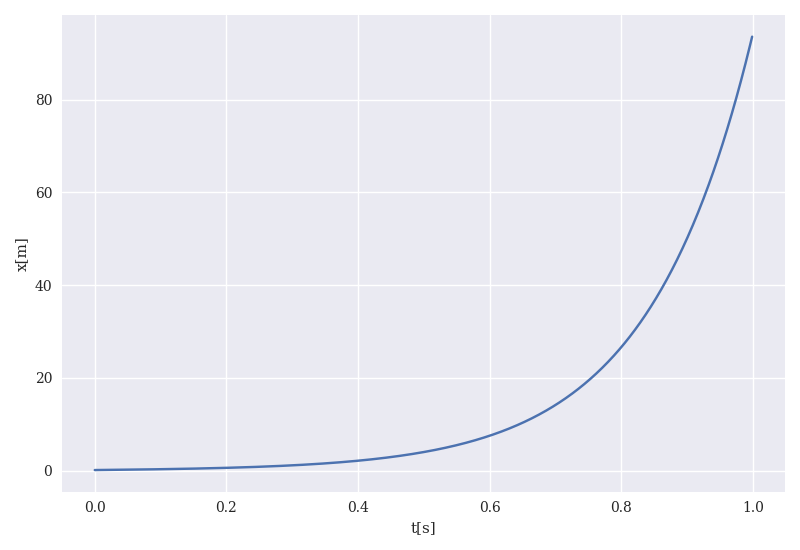
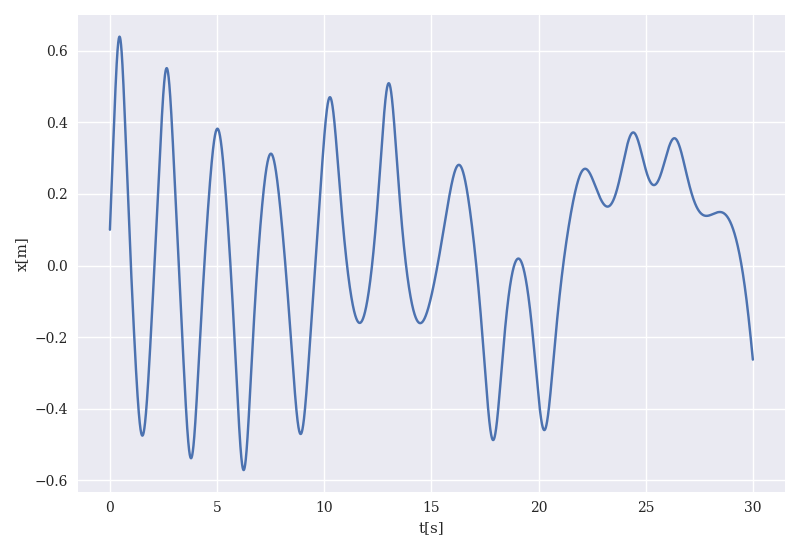
wrong link

diff --git a/doc/web/course.html b/doc/web/course.html
@@ -616,7 +616,7 @@ The teaching material is produced in various formats for printing and on-screen 
  <li> Jupyter notebook:</li>
 
 <ul>
-    <li> <a href="https://mhjensen.github.io/Physics321/doc/Homeworks/hw4/ipynb/first.ipynb" target="_self">The notebook</a></li>
+    <li> <a href="https://mhjensen.github.io/Physics321/doc/MidTermProjects/first/html/first.ipynb" target="_self">The notebook</a></li>
 </ul>
 
  <li> Solution as Jupyter notebook:</li>

diff --git a/doc/src/harmonic/Programs/BlockEulerCromer.py b/doc/src/harmonic/Programs/BlockEulerCromer.py
@@ -35,7 +35,7 @@ mpl.rcParams['font.family'] = 'serif'
 
 DeltaT = 0.001
 #set up arrays 
-tfinal = 1.0
+tfinal = 30.0
 n = ceil(tfinal/DeltaT)
 # set up arrays for t, v, and x
 t = np.zeros(n)
@@ -43,8 +43,8 @@ v = np.zeros(n)
 x = np.zeros(n)
 E = np.zeros(n)
 d = 0.1
-mass = 1.0
-V0 = 0.1
+mass = 1000.0
+V0 = 1.0
 c1 = 4*V0/(d**4)/mass
 c2 = 4*V0/(d**2)/mass
 # Initial conditions 
@@ -53,10 +53,15 @@ v0 = 1.5
 x[0] = x0
 v[0] = v0
 gamma = 0.1
+F = 1.0
+omega =0.5
 # Start integrating using Euler's method
 for i in range(n-1):
     # Acceleration
-    a =  c2*x[i]#-c1*(x[i]**3)-gamma*v[i]
+    if (t < 20):
+       a =  c2*x[i]-c1*(x[i]**3)-gamma*v[i]
+    else:
+       a =  c2*x[i]-c1*(x[i]**3)-gamma*v[i]+F*cos(omega*t[i])        
     # update velocity, time and position using Euler's forward method
     v[i+1] = v[i] + DeltaT*a
     x[i+1] = x[i] + DeltaT*v[i+1]

diff --git a/doc/src/harmonic/Programs/TwoDimEC.py b/doc/src/harmonic/Programs/TwoDimEC.py
@@ -49,8 +49,8 @@ c1 = 4*V0/(d**4)/mass
 c2 = 4*V0/(d**2)/mass
 gamma = 0.1
 # Initial conditions as compact 2-dimensional arrays, here r =(d,0) and v =(0,0.5)
-r0 = np.array([d,0.0])
-v0 = np.array([0.0,0.5])
+r0 = np.array([d*np.sqrt(2.0),0.0])
+v0 = np.array([0,2*np.sqrt(2)])
 r[0] = r0
 v[0] = v0
 # Start integrating using the Euler-Cromer method
